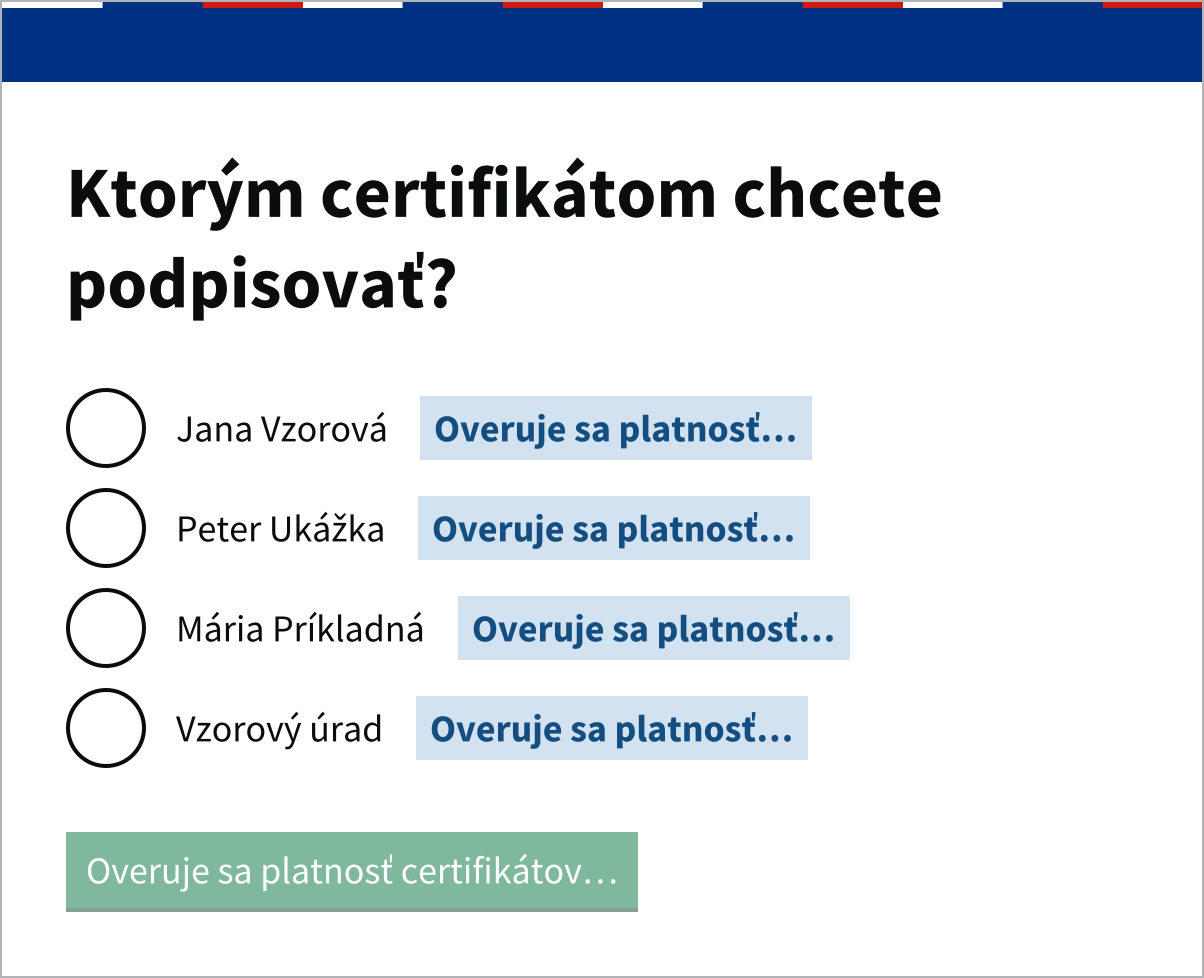
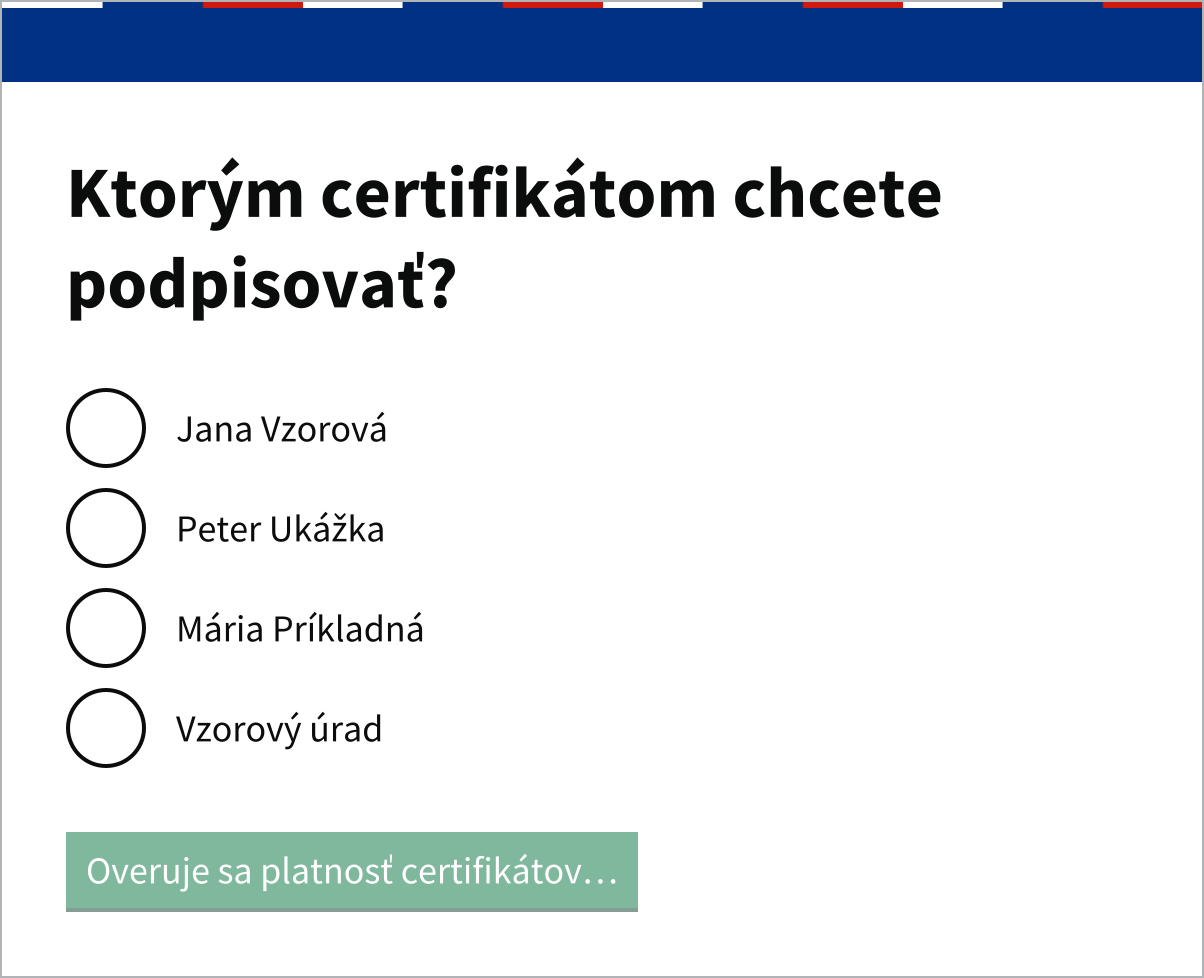
show certificate checks only on the sign button
A badge on every certificate flashed for a fraction of a second while the checks ran. The disabled button already says that certificates are being checked.

Changed region(s): [[0.338, 0.3988, 0.7068, 0.6748], [0.338, 0.7055, 0.6761, 0.7975]]

diff --git a/src/main/java/digital/slovensko/autogram/ui/gui/PickKeyDialogController.java b/src/main/java/digital/slovensko/autogram/ui/gui/PickKeyDialogController.java
@@ -79,23 +79,21 @@ public class PickKeyDialogController extends BaseController {
         toggleGroup = new ToggleGroup();
         mainButtonText = mainButton.getText();
         for (var key : keys) {
-            Node badge = new HBox();
+            var badges = new HBox();
+            badges.getStyleClass().add("autogram-pick-key-badges");
             var expired = !key.getCertificate().isValidOn(new java.util.Date());
             if (expired) {
-                badge = SignatureBadgeFactory.createInfoBadge("Exspirovaný certifikát");
+                badges.getChildren().add(SignatureBadgeFactory.createInfoBadge("Exspirovaný certifikát"));
 
                 if (!userSettings.isExpiredCertsEnabled())
                     continue;
             } else {
-                badge = SignatureBadgeFactory.createInProgressBadge(i18n("pickKey.certificateStatus.checking"));
                 checkPending.add(key);
             }
 
             var radioButton = new RadioButton(parseCN(key.getCertificate().getSubject().getRFC2253()));
             radioButton.setToggleGroup(toggleGroup);
             radioButton.setUserData(key);
-            var badges = new HBox(badge);
-            badges.getStyleClass().add("autogram-pick-key-badges");
             radios.getChildren().add(new HBox(radioButton, badges));
 
             var tooltip = new Tooltip(buildTooltipLabel(key));

diff --git a/src/test/java/digital/slovensko/autogram/ui/gui/PickKeyDialogControllerTest.java b/src/test/java/digital/slovensko/autogram/ui/gui/PickKeyDialogControllerTest.java
@@ -64,6 +64,7 @@ class PickKeyDialogControllerTest {
 
             assertTrue(dialog.controller().mainButton.isDisabled());
             assertEquals(dialog.i18n("pickKey.certificateStatus.checking.btn"), dialog.controller().mainButton.getText());
+            assertTrue(dialog.badges(jana).getChildren().isEmpty());
 
             dialog.answer(jana, QUALIFIED);
             assertTrue(dialog.controller().mainButton.isDisabled());
